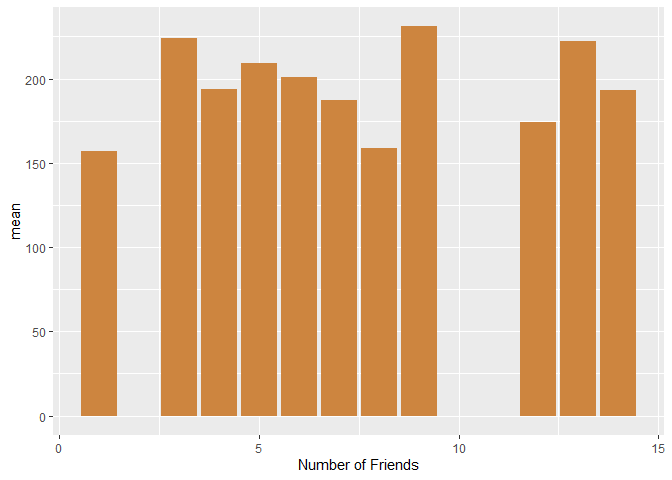
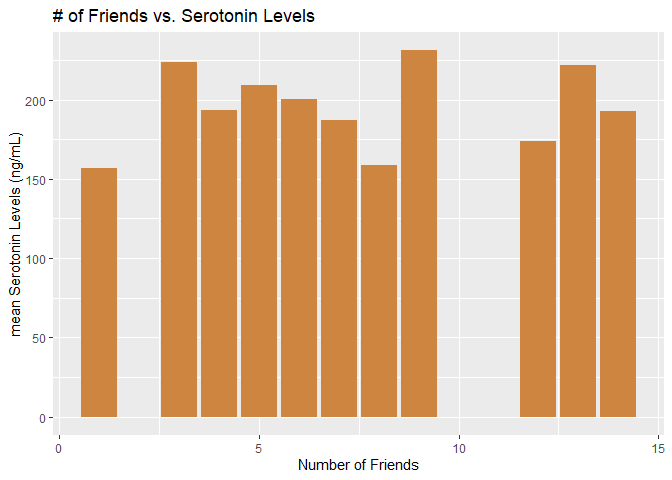
Challenge 10 Corrections

diff --git a/challenges/c10-islands-pt2-assignment.md b/challenges/c10-islands-pt2-assignment.md
@@ -235,7 +235,12 @@ df_island %>%
     aes(x = `Number of Friends`, y = Serotonin, color = Income)
   ) +
   geom_point() +
-  scale_color_gradient(low = "deepskyblue", high = "darkred")
+  scale_color_gradient(low = "deepskyblue", high = "darkred")+
+labs(
+  title = "Serotonin Levels vs. # of Friends",
+  x = "Number of Friends",
+  y = "Serotonin (ng/mL)",
+)
 ```
 
 ![](c10-islands-pt2-assignment_files/figure-gfm/unnamed-chunk-2-1.png)<!-- -->
@@ -246,7 +251,12 @@ df_island %>%
     aes(x = Income, y = `Number of Friends`)
   ) +
   geom_point(color = "gray8") +
-  geom_smooth(color = "olivedrab")
+  geom_smooth(color = "olivedrab")+
+labs(
+  title = "Income vs. # of Friends",
+  x = "Islander's Total Money",
+  y = "Number of Friends",
+)
 ```
 
     ## `geom_smooth()` using method = 'loess' and formula = 'y ~ x'
@@ -258,12 +268,7 @@ df_island %>%
   ggplot(
     aes(x = `Relationship Status`, y = Serotonin)
   ) +
-  geom_boxplot(color = "darkred")
-```
-
-![](c10-islands-pt2-assignment_files/figure-gfm/unnamed-chunk-4-1.png)<!-- -->
-
-``` r
+  geom_boxplot(color = "darkred") +
 labs(
   title = "Income vs. Serotonin Levels",
   x = "Islander's Total Money",
@@ -271,29 +276,14 @@ labs(
 )
 ```
 
-    ## $x
-    ## [1] "Islander's Total Money"
-    ## 
-    ## $y
-    ## [1] "Serotonin Levels (ng/mL)"
-    ## 
-    ## $title
-    ## [1] "Income vs. Serotonin Levels"
-    ## 
-    ## attr(,"class")
-    ## [1] "labels"
+![](c10-islands-pt2-assignment_files/figure-gfm/unnamed-chunk-4-1.png)<!-- -->
 
 ``` r
 df_island %>%
   ggplot(
     aes(x = as.character(Loss), y = Serotonin)
   ) +
-  geom_boxplot(color = "aquamarine4")
-```
-
-![](c10-islands-pt2-assignment_files/figure-gfm/unnamed-chunk-5-1.png)<!-- -->
-
-``` r
+  geom_boxplot(color = "aquamarine4") +
 labs(
   title = "Income vs. Serotonin Levels",
   x = "Islander's Total Money",
@@ -301,17 +291,7 @@ labs(
 )
 ```
 
-    ## $x
-    ## [1] "Islander's Total Money"
-    ## 
-    ## $y
-    ## [1] "Serotonin Levels (ng/mL)"
-    ## 
-    ## $title
-    ## [1] "Income vs. Serotonin Levels"
-    ## 
-    ## attr(,"class")
-    ## [1] "labels"
+![](c10-islands-pt2-assignment_files/figure-gfm/unnamed-chunk-5-1.png)<!-- -->
 
 ``` r
 df_island %>%
@@ -320,7 +300,12 @@ df_island %>%
   ggplot(
     aes(x = `Number of Friends`, y = mean)
   ) +
-  geom_col(fill = "peru")
+  geom_col(fill = "peru")+
+labs(
+  title = "# of Friends vs. Serotonin Levels",
+  x = "Number of Friends",
+  y = "mean Serotonin Levels (ng/mL)",
+)
 ```
 
 ![](c10-islands-pt2-assignment_files/figure-gfm/unnamed-chunk-6-1.png)<!-- -->
